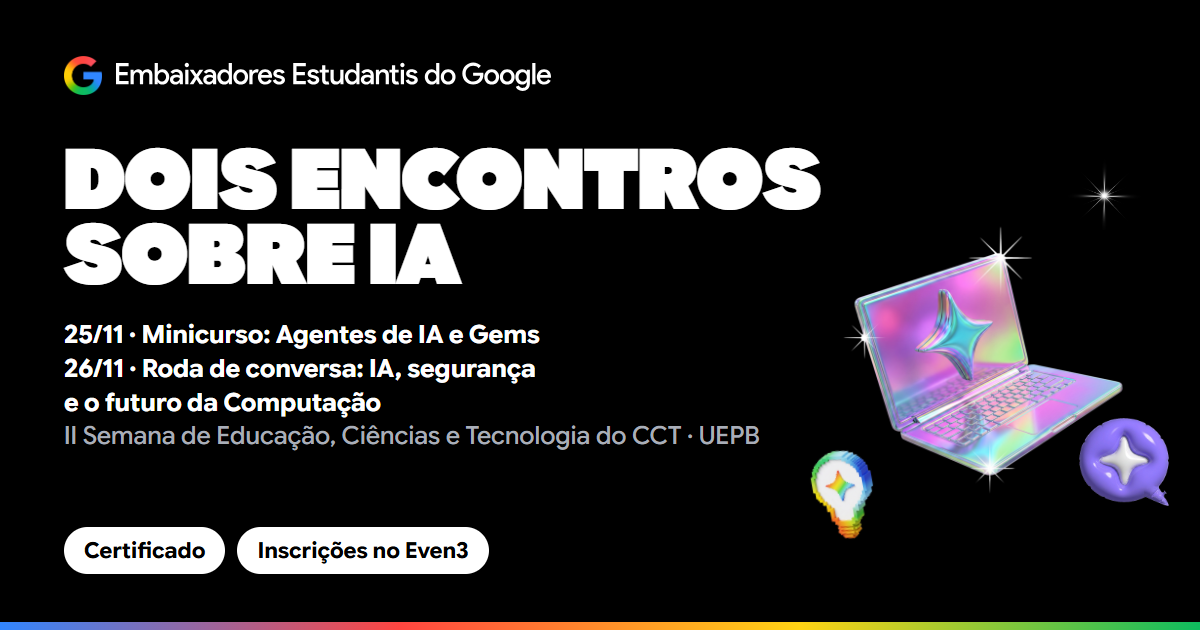
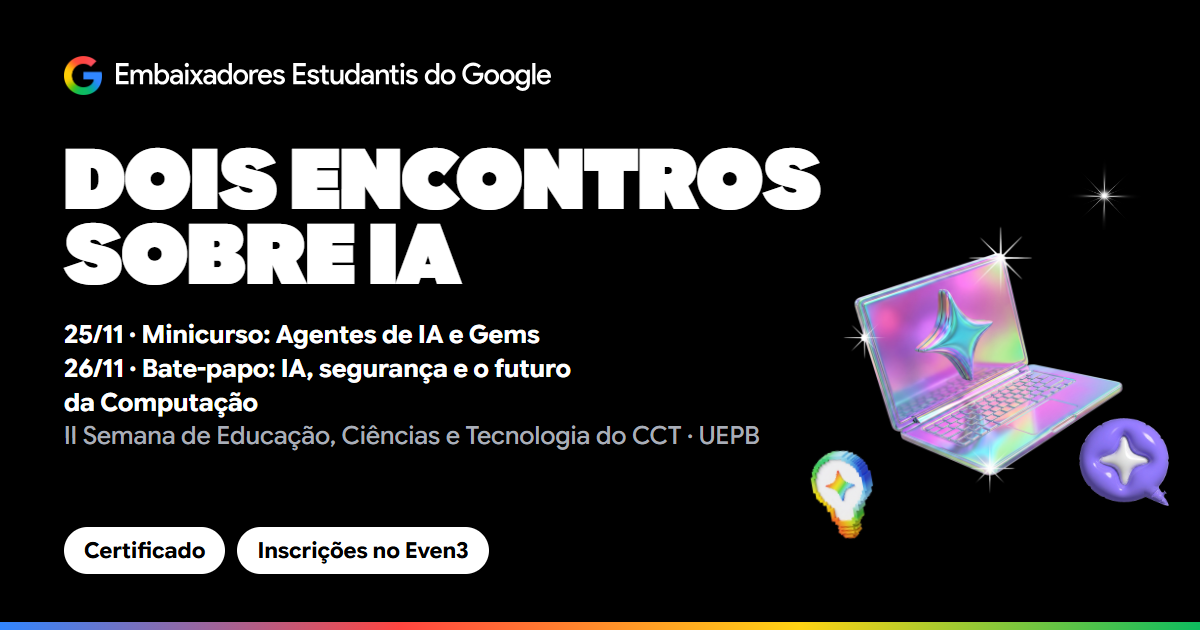
Troca roda de conversa por bate-papo e adiciona foto da Hellida

Changed region(s): [[0.0617, 0.573, 0.4933, 0.6635]]

diff --git a/index.html b/index.html
@@ -4,9 +4,9 @@
 <meta charset="utf-8">
 <meta name="viewport" content="width=device-width, initial-scale=1">
 <title>IA no CCT · Embaixadores Estudantis do Google UEPB</title>
-<meta name="description" content="Minicurso de Agentes de IA e Gems (25/11) e roda de conversa sobre IA, segurança e o futuro da Computação (26/11) na II Semana de Educação, Ciências e Tecnologia do CCT, UEPB.">
+<meta name="description" content="Minicurso de Agentes de IA e Gems (25/11) e bate-papo sobre IA, segurança e o futuro da Computação (26/11) na II Semana de Educação, Ciências e Tecnologia do CCT, UEPB.">
 <meta property="og:type" content="website">
-<meta property="og:title" content="IA no CCT: minicurso e roda de conversa (25 e 26/11)">
+<meta property="og:title" content="IA no CCT: minicurso e bate-papo (25 e 26/11)">
 <meta property="og:description" content="Agentes de IA e Gems na prática e uma conversa sobre IA, segurança e o futuro da Computação. Com certificado. Inscrições pelo Even3.">
 <meta property="og:url" content="https://joaodev1409.github.io/ia-no-cct/">
 <meta property="og:image" content="https://joaodev1409.github.io/ia-no-cct/og.png">
@@ -242,7 +242,7 @@
       <div>
         <span class="chip"><span class="dot" style="background:var(--yellow)"></span>II Semana de Educação, Ciências e Tecnologia do CCT · UEPB</span>
         <h1>Dois encontros<br>sobre IA</h1>
-        <p class="lead">Quarta tem minicurso de agentes de IA e Gems. Quinta, roda de conversa sobre IA, segurança e o futuro da Computação. Os dois com certificado.</p>
+        <p class="lead">Quarta tem minicurso de agentes de IA e Gems. Quinta, bate-papo sobre IA, segurança e o futuro da Computação. Os dois com certificado.</p>
         <div class="ctas">
           <a class="btn btn-primary" data-even3 href="#" target="_blank" rel="noopener">Inscreva-se no Even3 <span aria-hidden="true">↗</span></a>
           <a class="btn btn-ghost" href="#programacao">Ver programação</a>
@@ -281,7 +281,7 @@
         <article class="card">
           <div class="when">
             <div class="date" style="background:var(--red)"><b>26</b><span>nov · qui</span></div>
-            <div><div class="kind">Roda de conversa</div><div class="hour">16h às 17h</div></div>
+            <div><div class="kind">Bate-papo</div><div class="hour">16h às 17h</div></div>
           </div>
           <h3>IA, segurança e o futuro da Computação</h3>
           <div class="meta">
@@ -289,7 +289,7 @@
           </div>
           <div class="tags"><span>Certificado</span><span>100 vagas</span></div>
           <div class="actions">
-            <a class="btn btn-ghost btn-sm" href="#roda">Ver detalhes</a>
+            <a class="btn btn-ghost btn-sm" href="#bate-papo">Ver detalhes</a>
             <a class="btn btn-ghost btn-sm" data-cal="roda" href="#" target="_blank" rel="noopener">Salvar na agenda</a>
           </div>
         </article>
@@ -327,11 +327,11 @@
     </div>
   </section>
 
-  <section id="roda">
+  <section id="bate-papo">
     <div class="wrap">
-      <p class="eyebrow">Roda de conversa · 26/11</p>
+      <p class="eyebrow">Bate-papo · 26/11</p>
       <h2 class="display" style="line-height:1.02">Conheça os<br>convidados</h2>
-      <p class="intro">Uma conversa aberta com o público sobre ataques que usam IA, a evolução dos agentes de IA e o que muda na formação e no trabalho de quem está entrando na Computação.</p>
+      <p class="intro">Um bate-papo aberto com o público sobre ataques que usam IA, a evolução dos agentes de IA e o que muda na formação e no trabalho de quem está entrando na Computação.</p>
       <div class="guests" id="guests"></div>
       <p class="mediacao"><b>Mediação:</b> Hellida Louize Lima Duarte Gomes e João Victor da Silva Almeida Guimarães</p>
     </div>
@@ -343,7 +343,7 @@
       <h2 class="display">Embaixadores<br>da UEPB</h2>
       <p class="intro">Fazemos parte do Programa Embaixadores Estudantis do Google, que leva oficinas e conversas sobre IA para dentro das universidades.</p>
       <div class="hosts">
-        <div class="host"><div class="avatar" style="background:var(--yellow)">HG</div><div><b>Hellida Louize Lima Duarte Gomes</b><span>Embaixadora Estudantil do Google</span></div></div>
+        <div class="host"><div class="avatar photo"><img src="assets/hellida.jpg" alt="Foto de Hellida Louize Lima Duarte Gomes" loading="lazy"></div><div><b>Hellida Louize Lima Duarte Gomes</b><span>Embaixadora Estudantil do Google</span></div></div>
         <div class="host"><div class="avatar photo"><img src="assets/joao.jpg" alt="Foto de João Victor da Silva Almeida Guimarães" loading="lazy"></div><div><b>João Victor da Silva Almeida Guimarães</b><span>Embaixador Estudantil do Google</span></div></div>
       </div>
     </div>
@@ -356,7 +356,7 @@
         <h2 class="display">Central Acadêmica Paulo Freire</h2>
         <div class="place">
           <div class="row"><span class="dot" style="background:var(--blue)"></span><span><b>Minicurso:</b> Lab 5</span></div>
-          <div class="row"><span class="dot" style="background:var(--red)"></span><span><b>Roda de conversa:</b> Auditório 2</span></div>
+          <div class="row"><span class="dot" style="background:var(--red)"></span><span><b>Bate-papo:</b> Auditório 2</span></div>
           <div class="row"><span class="dot" style="background:var(--yellow)"></span><span>UEPB, Campina Grande</span></div>
         </div>
         <div style="margin-top:28px"><a class="btn btn-ghost btn-sm" href="https://www.google.com/maps/search/?api=1&query=Central+Acad%C3%AAmica+Paulo+Freire+UEPB+Campina+Grande" target="_blank" rel="noopener">Abrir no Google Maps ↗</a></div>
@@ -377,8 +377,8 @@
           <p>Celular ou notebook com acesso à internet, para acompanhar a parte prática no Gemini.</p>
         </details>
         <details>
-          <summary>Quantas vagas tem a roda?</summary>
-          <p>A roda de conversa tem 100 vagas no Auditório 2.</p>
+          <summary>Quantas vagas tem o bate-papo?</summary>
+          <p>O bate-papo tem 100 vagas no Auditório 2.</p>
         </details>
       </div>
     </div>
@@ -405,14 +405,14 @@
 
 <script>
   const EVEN3 = "https://www.even3.com.br/ii-semana-de-educacao-ciencias-e-tecnologia-do-cct-798617";
-  const TOTAL_PREVISTO = 3; // convidados previstos na roda; os que faltam aparecem como "a confirmar"
+  const TOTAL_PREVISTO = 3; // convidados previstos no bate-papo; os que faltam aparecem como "a confirmar"
 
   document.querySelectorAll("[data-even3]").forEach(a => a.href = EVEN3);
 
   // Botões "+ Agenda" (Google Agenda). Horários em UTC: Campina Grande é UTC-3.
   const CAL = {
     mini: { t: "Minicurso: Agentes de IA e Gems: do conceito à prática", d: "20261125T183000Z/20261125T200000Z", l: "Lab 5, Central Acadêmica Paulo Freire (CAPF), UEPB, Campina Grande" },
-    roda: { t: "Roda de conversa: IA, segurança e o futuro da Computação", d: "20261126T190000Z/20261126T200000Z", l: "Auditório 2, Central Acadêmica Paulo Freire (CAPF), UEPB, Campina Grande" },
+    roda: { t: "Bate-papo: IA, segurança e o futuro da Computação", d: "20261126T190000Z/20261126T200000Z", l: "Auditório 2, Central Acadêmica Paulo Freire (CAPF), UEPB, Campina Grande" },
   };
   document.querySelectorAll("[data-cal]").forEach(a => {
     const e = CAL[a.dataset.cal];

diff --git a/convidados/convidados.js b/convidados/convidados.js
@@ -1,4 +1,4 @@
-// Convidados CONFIRMADOS da roda de conversa (26/11), usados no carrossel.
+// Convidados CONFIRMADOS do bate-papo (26/11), usados no carrossel.
 // Cada convidado vira um slide. Para incluir outro: copie o bloco, troque os dados e rode `python gerar.py`.
 // Mantenha no formato JSON (aspas duplas, sem vírgula sobrando): o gerar.py lê este arquivo.
 window.CONVIDADOS = [
